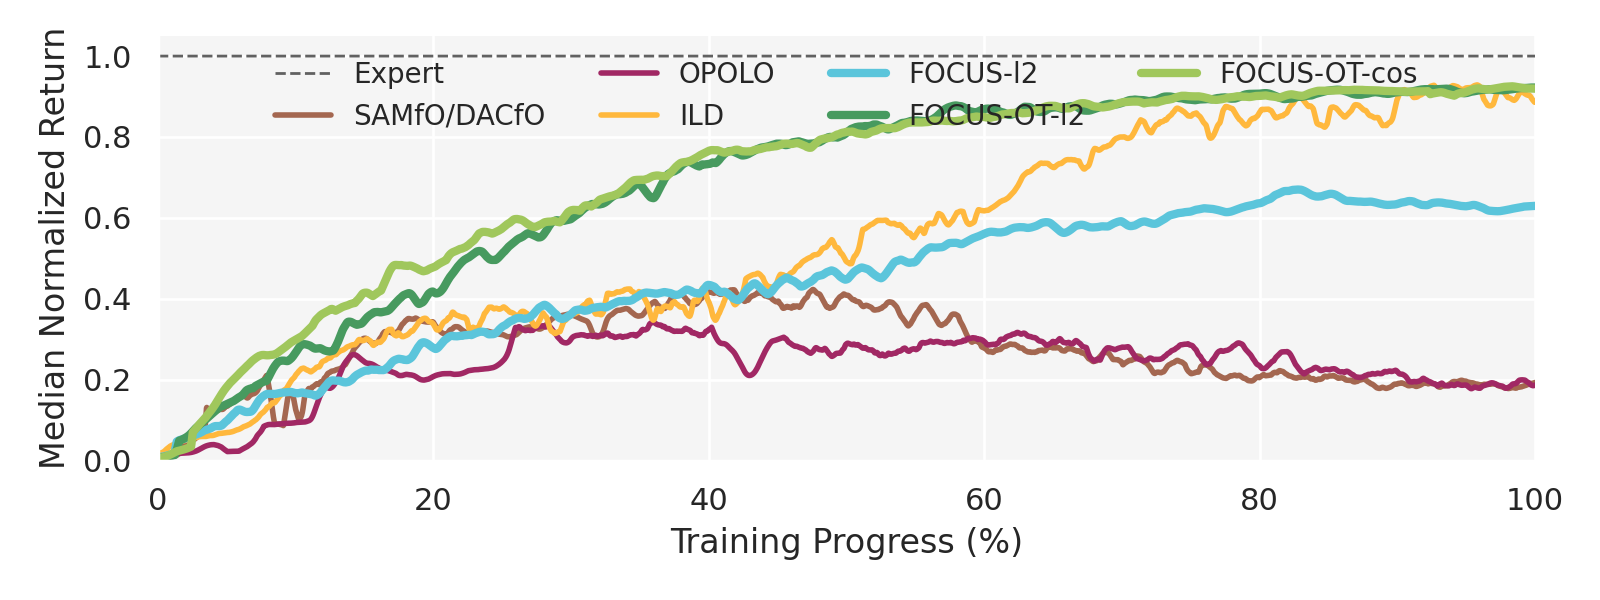
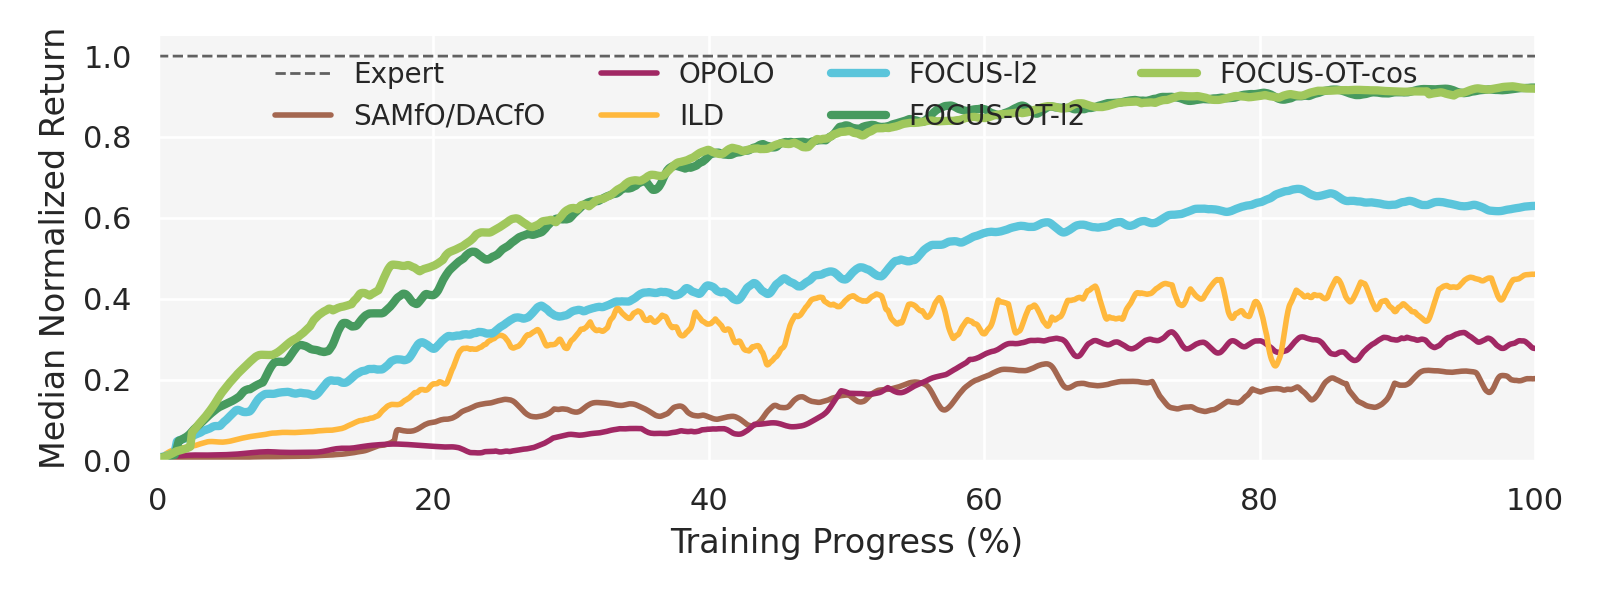
update

diff --git a/plotter/plotter.py b/plotter/plotter.py
@@ -203,21 +203,35 @@ def plot_results_like_first(
             algo_data = env_data[algo_key]
             if not algo_data["data"]:
                 continue
-            
-            agent_times = algo_data.get("agent_times", [])
-            agent_times = [convert_seconds_to_hours(t) for t in agent_times]
-            min_times_x = min([t[-1] for t in agent_times])
-            min_times_x_grid = np.linspace(0, min_times_x, num=n_points)
-            values = []
-            for i in range(len(algo_data["data"])):
-                times = agent_times[i]
-                returns = algo_data["data"][i]
-                ep_ret_inter = np.interp(min_times_x_grid, times, returns)
-                values.append(ep_ret_inter)
 
-            values = np.vstack(values)
-            mean = values.mean(axis=0)
-            std = values.std(axis=0)
+            if x_axis == "time":
+                agent_times = algo_data.get("agent_times", [])
+                if not agent_times:
+                    continue
+                agent_times = [convert_seconds_to_hours(t) for t in agent_times]
+                min_times_x = min(t[-1] for t in agent_times if len(t) > 0)
+                if min_times_x <= 0:
+                    continue
+                min_times_x_grid = np.linspace(0, min_times_x, num=n_points)
+                values = []
+                for i in range(len(algo_data["data"])):
+                    times = agent_times[i]
+                    returns = algo_data["data"][i]
+                    if len(times) == 0:
+                        continue
+                    ep_ret_inter = np.interp(min_times_x_grid, times, returns)
+                    values.append(ep_ret_inter)
+                if not values:
+                    continue
+                values = np.vstack(values)
+                mean = values.mean(axis=0)
+                std = values.std(axis=0)
+                x_plot = min_times_x_grid
+            else:
+                values = np.vstack(algo_data["data"])
+                mean = values.mean(axis=0)
+                std = values.std(axis=0)
+                x_plot = x
 
             # Normalize by expert mean to match your first script behavior
             if normalize_expert and expert_mean is not None and expert_mean != 0:
@@ -234,7 +248,7 @@ def plot_results_like_first(
             lw = 1 if algo_key.lower().startswith("focus") else 1
 
             ax.plot(
-                min_times_x_grid,
+                x_plot,
                 mean,
                 label=algo_disp,
                 linewidth=lw,
@@ -242,7 +256,7 @@ def plot_results_like_first(
                 linestyle=linestyle,
             )
             ax.fill_between(
-                min_times_x_grid,
+                x_plot,
                 mean - std,
                 mean + std,
                 alpha=0.2,
@@ -337,10 +351,11 @@ def plot_single_env(
     x = None
     x_label = None
     if x_axis == "time":
-        x = get_time_axis_max(env_data)
-        print("TIME AXIS:", x)
-        if x is not None:
-            x_label = "Relative Time (min)"
+        max_time = get_time_axis_max(env_data)
+        if max_time is not None and max_time > 0:
+            max_time = convert_seconds_to_hours(max_time)
+            x = np.linspace(0, max_time, num=n_points)
+            x_label = "Relative Time (h)"
     if x is None:
         if max_steps is not None and max_steps > 0:
             x = np.linspace(0, max_steps, num=n_points)
@@ -379,9 +394,34 @@ def plot_single_env(
         if not algo_data["data"]:
             continue
 
-        values = np.vstack(algo_data["data"])
-        mean = values.mean(axis=0)
-        std = values.std(axis=0)
+        if x_axis == "time":
+            agent_times = algo_data.get("agent_times", [])
+            if not agent_times:
+                continue
+            agent_times = [convert_seconds_to_hours(t) for t in agent_times]
+            min_times_x = min(t[-1] for t in agent_times if len(t) > 0)
+            if min_times_x <= 0:
+                continue
+            min_times_x_grid = np.linspace(0, min_times_x, num=n_points)
+            values = []
+            for i in range(len(algo_data["data"])):
+                times = agent_times[i]
+                returns = algo_data["data"][i]
+                if len(times) == 0:
+                    continue
+                ep_ret_inter = np.interp(min_times_x_grid, times, returns)
+                values.append(ep_ret_inter)
+            if not values:
+                continue
+            values = np.vstack(values)
+            mean = values.mean(axis=0)
+            std = values.std(axis=0)
+            x_plot = min_times_x_grid
+        else:
+            values = np.vstack(algo_data["data"])
+            mean = values.mean(axis=0)
+            std = values.std(axis=0)
+            x_plot = x
 
         if normalize_expert and expert_mean is not None and expert_mean != 0:
             mean = mean / expert_mean
@@ -391,7 +431,7 @@ def plot_single_env(
         algo_disp = get_algo_display(algo_key, ALGO_DISPLAY)
 
         ax.plot(
-            x,
+            x_plot,
             mean,
             label=algo_disp,
             linewidth=1,  # adjust if you want FOCUS thicker
@@ -399,7 +439,7 @@ def plot_single_env(
             linestyle=get_linestyle(algo_disp),
         )
         ax.fill_between(
-            x,
+            x_plot,
             mean - std,
             mean + std,
             alpha=0.2,
@@ -695,6 +735,7 @@ def main(
                         step_grid = None
                     elif x_axis == "steps":
                         # Interpolate to a shared step grid
+                        time_grid = None
                         if max_steps is None:
                             max_steps = float(steps[-1])
                         step_grid = np.linspace(0, max_steps, num=n_points)
@@ -766,4 +807,4 @@ def main(
 
 if __name__ == "__main__":
     # sync exp from the remote server
-    main(sync_remote=False, update_group_runs=False, create_plots=True, x_axis="time")
+    main(sync_remote=False, update_group_runs=False, create_plots=True, x_axis="steps")
